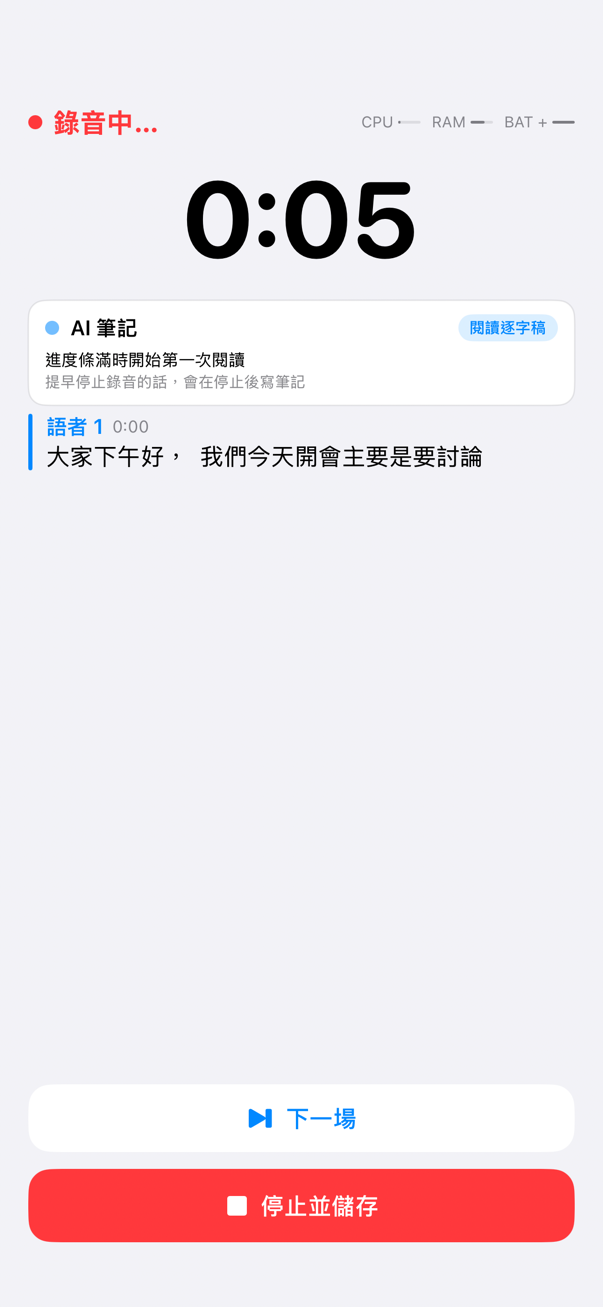
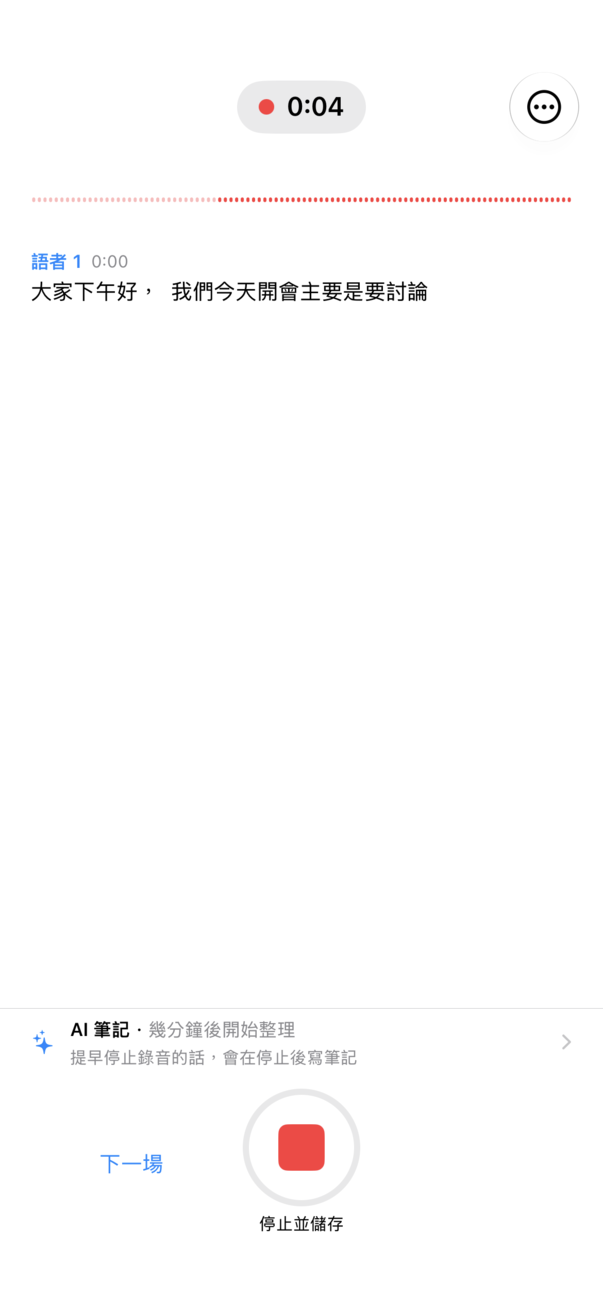
ios docs: reshoot recording-screen media for the capture redesign (iPhone 17e, build 29)
qs-capture and 24c-first-reading stills, agent-live (x2) and the recording +
library part of demo-studio (x24, two meetings with Next talk, E4B) captured
on the 17e via VOX_RECORD/VOX_MICFILE/VOX_FRAMES; the tour part of
demo-studio is kept from the 14 Pro Max take. USER_GUIDE section 4 and the
hardware meters row describe the new screen; README hero caption updated.

diff --git a/docs/USER_GUIDE.md b/docs/USER_GUIDE.md
@@ -177,14 +177,16 @@ App 不登入任何帳號，也不直接上傳到雲端。
 
 ## 4. 錄音室
 
-錄音前就把錄音排入佇列，App 被終止也保留音訊。錄音時套用自動增益（只放大小聲的語音），逐字稿即時出現；語者在設定的延遲後標上顏色。AI 筆記每讀滿一段逐字稿（約 1,500 個詞元）才寫一批：第一次閱讀前，卡片顯示「進度條滿時開始第一次閱讀」，錄音約一分鐘後改為「第一次閱讀約在 N 分鐘後」（依目前的說話速度），並提示提早停止錄音的話筆記在停止後才寫。RAM 不足 4.5 GB 時，AI 筆記在錄音結束後才閱讀。
+錄音前就把錄音排入佇列，App 被終止也保留音訊。錄音時套用自動增益（只放大小聲的語音）。畫面上方是紅點與已錄時間，下面是即時聲波；逐字稿從畫面頂端往下長，語者名稱依顏色區分，在設定的延遲後才確定。往上捲動看前文時會停在原處，按「最新」回到最新的一句。右上角的 **⋯** 可以打開「顯示效能資訊」（CPU、記憶體、電池）；手機過熱、記憶體或儲存空間不足時，這列會自己出現。
+
+底部一列是 AI 筆記。AI 筆記每讀滿一段逐字稿（約 1,500 個詞元）才寫一批：一開始顯示「幾分鐘後開始整理」，錄音約一分鐘後改成「第一次閱讀約在 N 分鐘後」（依目前的說話速度），並提醒你提早停止的話，筆記會在停止後才寫。寫出筆記後，這一列變成卡片，列出最新三則；點一下打開完整的 AI 筆記面板。最下面是圓形的 **停止並儲存**，左邊是 **下一場**。RAM 不足 4.5 GB 時，AI 筆記在錄音結束後才閱讀。
 
 <p><img src="screenshots/qs-capture.png" width="200" alt="錄音室"> <img src="guide/24c-first-reading.png" width="200" alt="第一次閱讀約在 9 分鐘後"></p>
 
 | 節點 | 預期結果 | 驗證 |
 |---|---|---|
 | 計時與即時逐字稿 | 逐字稿隨說話更新 | ✅ 手動 |
-| AI 筆記卡片 | 閱讀中／寫筆記；展開可看每則筆記 | ✅ 手動 |
+| AI 筆記列 | 寫出筆記前顯示預計何時開始；之後變成卡片列出最新三則，點一下打開 AI 筆記面板 | ✅ 手動 |
 | 停止 | 存檔、轉錄、摘要並取標題；完成後通知「場次已就緒」 | ✅ 手動 |
 
 ## 5. 場次：摘要分頁
@@ -290,7 +292,7 @@ App 不登入任何帳號，也不直接上傳到雲端。
 | 語音轉寫延遲 | 0.16／0.48／0.96／1.92 秒（預設 1.92 秒），滑桿四段：最快、最不準／快／平衡／最準確。延遲越長，文字越準確（即時顯示與儲存的逐字稿皆是）；選擇新的延遲會在背景下載對應的語音模型（約 155 MB），下載完成前使用已安裝中最接近的模型 | ✅ 手動（iPhone 14 Pro Max，畫面） |
 | 說話者名錄 | 開啟說話者名錄（第 9 節），顯示已命名的人數 | ✅ 手動 |
 | AI 筆記模型 | E2B（預設）或 E4B（6 GB 以上 RAM 的 iPhone；載入時可用記憶體低於 2.5 GB 則該次改用 E2B） | ✅ 手動 |
-| 硬體狀態列 | 錄音時在錄音室標題列右側、處理時在即時畫面的狀態列右側顯示 CPU、記憶體、電池；首頁不顯示 | ✅ 手動（iPhone 14 Pro Max） |
+| 硬體狀態列 | 錄音時由錄音室右上角 ⋯ →「顯示效能資訊」打開（過熱、記憶體或儲存空間不足時自動出現）；處理時在即時畫面的狀態列右側顯示 CPU、記憶體、電池；首頁不顯示 | ✅ 手動（iPhone 14 Pro Max） |
 | 推論執行緒 | 自動（首次一秒測試）或手動；載入失敗時自動降低 | ✅ 手動 |
 | 顯示待辦事項 | 摘要分頁多一張待辦卡（分享的 PDF／Word 一律附上待辦事項） | ✅ 手動 |
 | 背景檢查新集數 | 預設關閉；見第 3b 節 | ✅ 自動（BackgroundCheckTests） |

diff --git a/README.md b/README.md
@@ -17,7 +17,7 @@
 </p>
 
 <p align="center"><img src="docs/screenshots/demo-studio.gif" width="300" alt="連續錄兩場會議"><br>
-<sub>連續錄兩場會議，停止後自動完成筆記、摘要與標題（iPhone 14 Pro Max，E4B；部分片段加速）</sub></p>
+<sub>連續錄兩場會議，停止後自動完成筆記、摘要與標題（錄音畫面為 iPhone 17e 新版錄音室，之後的導覽為 iPhone 14 Pro Max；E4B；部分片段加速）</sub></p>
 
 ## 下載
 
